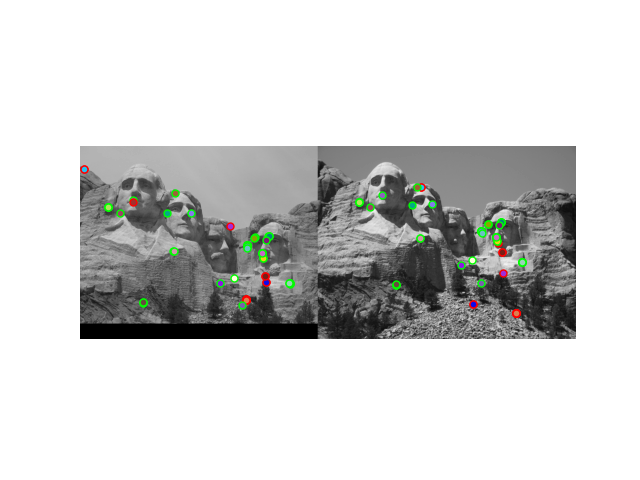
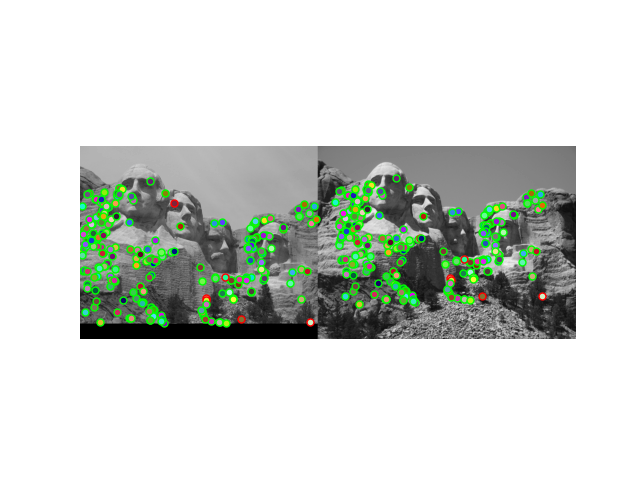
m

diff --git a/code/hw4_functions.py b/code/hw4_functions.py
@@ -1,6 +1,7 @@
 import cv2
 import numpy as np
 import skimage
+from scipy.ndimage import convolve
 
 def get_interest_points(image, descriptor_window_image_width):
     # Local Feature Stencil Code
@@ -34,45 +35,53 @@ def get_interest_points(image, descriptor_window_image_width):
     # - Notre Dame: ~1300 and ~1700
     # - Mount Rushmore: ~3500 and ~4500
     # - Episcopal Gaudi: ~1000 and ~9000
-    sigma=1
+    # Convert image to grayscale if it is color
     img_gray = np.float32(image if len(image.shape) == 2 else cv2.cvtColor(image, cv2.COLOR_BGR2GRAY))
-    #blurred_image = cv2.GaussianBlur(img_gray, (0,0), sigma)
-    blurred_image = img_gray
-    Ix = cv2.Sobel(blurred_image, cv2.CV_64F, 1, 0, ksize=5)
-    Iy = cv2.Sobel(blurred_image, cv2.CV_64F, 0, 1, ksize=5)
-    Ixx = cv2.GaussianBlur(Ix * Ix, (0,0), sigma)
-    Iyy = cv2.GaussianBlur(Iy * Iy, (0,0), sigma)
-    Ixy = cv2.GaussianBlur(Ix * Iy, (0,0), sigma)
-    
-    # Compute the Harris response
-    traceM = Ixx + Iyy
+    # Define horizontal and vertical gradient filters
+    gradient_filter_x = np.array([[-1, 0, 1]])
+    gradient_filter_y = np.array([[-1], [0], [1]])
+
+    # Compute gradients by convolving gradient filters with the image
+    Ix = cv2.filter2D(src=img_gray, kernel=gradient_filter_x, ddepth=-1)
+    Iy = cv2.filter2D(src=img_gray, kernel=gradient_filter_y, ddepth=-1)
+
+    # Compute products of derivatives
+    sigma = 1
     alpha = 0.05
-    cornerness = Ixx*Iyy-Ixy*Ixy-alpha*traceM
+    threshold = 0.01
+    Ixx = cv2.GaussianBlur(Ix * Ix, (5, 5), sigma)
+    Iyy = cv2.GaussianBlur(Iy * Iy, (5, 5), sigma)
+    Ixy = cv2.GaussianBlur(Ix * Iy, (5, 5), sigma)
+    cornerness = (Ixx*Iyy) - (Ixy**2) - alpha*((Ixx+Iyy)**2)
+    corners = cornerness > threshold * cornerness.max()
+    distance = 1
+    for i in range(distance, corners.shape[0] - distance):
+        for j in range(distance, corners.shape[1] - distance):
+            if corners[i, j]:
+                local_max = cornerness[i - distance:i + distance + 1, j - distance:j + distance + 1].max()
+                if cornerness[i, j] != local_max:
+                    corners[i, j] = False
 
-    # Thresholding to get initial corners
-    threshold = 0.08  # You may need to adjust this threshold
-    corners_thresholded = cornerness > threshold*cornerness.max()
-    skimage.measure.label()
-    # Step 6: Non-maxima suppression to pick peaks
-    kernel = cv2.getStructuringElement(cv2.MORPH_RECT, (3, 3))
-    dilated = cv2.dilate(corners_thresholded.astype(np.float32), kernel)
-    max_corners = (dilated == corners_thresholded) & (corners_thresholded > 0)
-
-    # Apply edge threshold to suppress the gradients/corners near the edges of the image
-    border_size = descriptor_window_image_width // 2
-    height, width = image.shape
-    suppressed_corners = np.zeros_like(cornerness, dtype=np.float32)
-    suppressed_corners[border_size:height - border_size, border_size:width - border_size] = max_corners[border_size:height - border_size, border_size:width - border_size]
-
-    # Find final corner coordinates
-    final_corners_y, final_corners_x = np.nonzero(suppressed_corners)
-
-    # Print the number of corners
-    print(f"Number of corners detected: {len(final_corners_x)}")
-
-    return final_corners_x, final_corners_y
+    # Getting the coordinates of corners
+    y, x = np.where(corners)
+    return x, y
 
 
+def compute_dominant_orientation(magnitude, orientation):
+    num_bins = 36
+    orientation_histogram = np.zeros((num_bins,))
+    angle_step = 360.0 / num_bins
+
+    for i in range(magnitude.shape[0]):
+        for j in range(magnitude.shape[1]):
+            angle = orientation[i, j] % 360
+            bin_idx = int(angle / angle_step)
+            orientation_histogram[bin_idx] += magnitude[i, j]
+
+    dominant_bin = np.argmax(orientation_histogram)
+    dominant_orientation = dominant_bin * angle_step
+
+    return dominant_orientation
 
 def get_descriptors(image, x, y, descriptor_window_image_width):
     # Written by James Hays for CS 143 @ Brown / CS 4476/6476 @ Georgia Tech
@@ -98,7 +107,8 @@ def get_descriptors(image, x, y, descriptor_window_image_width):
     # Convert to grayscale if the image is color
     # Assuming keypoints are provided as a list of cv2.KeyPoint objects
     # descriptor_window_image_width is the width of the SIFT descriptors. By default, it's set to 16 pixels.
-
+    x = np.round(x).astype(int)
+    y = np.round(y).astype(int)
     if len(image.shape) > 2:
         image = cv2.cvtColor(image, cv2.COLOR_BGR2GRAY)
 
@@ -110,9 +120,13 @@ def get_descriptors(image, x, y, descriptor_window_image_width):
     descriptors = np.zeros((len(x), 128))  # 128 = 16 histograms * 8 bins per histogram
 
     # Compute gradients using Sobel operator
-    dx = cv2.Sobel(image, cv2.CV_64F, 1, 0, ksize=5)
-    dy = cv2.Sobel(image, cv2.CV_64F, 0, 1, ksize=5)
-    magnitude = cv2.magnitude(dx, dy)
+    gradient_filter_x = np.array([[-1, 0, 1]])
+    gradient_filter_y = np.array([[-1], [0], [1]])
+
+    # Compute gradients by convolving gradient filters with the image
+    dx = cv2.filter2D(src=image, kernel=gradient_filter_x, ddepth=-1)
+    dy = cv2.filter2D(src=image, kernel=gradient_filter_y, ddepth=-1)
+    magnitude = np.sqrt(np.add(np.square(dx), np.square(dy)))
     orientation = np.arctan2(dy, dx) * (180 / np.pi) % 360
 
     # Pre-compute the Gaussian window
@@ -121,10 +135,10 @@ def get_descriptors(image, x, y, descriptor_window_image_width):
 
     # Iterate over all keypoints
     for idx in range(len(x)):
-        xi, yi = int(x[idx]), int(y[idx])
-
+        xi=x[idx]
+        yi=y[idx]
         # Ensure the window is fully within the image bounds
-        min_x = max(xi - window_width * 2, 0)
+        min_x = max(xi - window_width * 2, 0) #이미지 경계와 descriptor window 경계 중 큰걸로
         max_x = min(xi + window_width * 2, image.shape[1])
         min_y = max(yi - window_width * 2, 0)
         max_y = min(yi + window_width * 2, image.shape[0])
@@ -132,7 +146,6 @@ def get_descriptors(image, x, y, descriptor_window_image_width):
         # Calculate the region of the image to be considered for this keypoint
         window_magnitude = magnitude[min_y:max_y, min_x:max_x]
         window_orientation = orientation[min_y:max_y, min_x:max_x]
-
         # Apply the Gaussian window
         weight_window_magnitude = window_magnitude * gaussian_window[min_y - yi + window_width * 2:max_y - yi + window_width * 2,
                                                                     min_x - xi + window_width * 2:max_x - xi + window_width * 2]
@@ -144,14 +157,9 @@ def get_descriptors(image, x, y, descriptor_window_image_width):
         for i in range(4):
             for j in range(4):
                 # Subregion of window, considering the boundaries
-                i_min = max(0, window_width * i - (yi - window_width * 2))
-                j_min = max(0, window_width * j - (xi - window_width * 2))
-                i_max = min(window_width * (i + 1), window_magnitude.shape[0])
-                j_max = min(window_width * (j + 1), window_magnitude.shape[1])
-
                 # Subregion of weighted magnitudes and orientations
-                subregion_w_mag = weight_window_magnitude[i_min:i_max, j_min:j_max].flatten()
-                subregion_orientation = window_orientation[i_min:i_max, j_min:j_max].flatten()
+                subregion_w_mag = weight_window_magnitude[window_width*i:window_width*(i+1), window_width*j:window_width*(j+1)].flatten()
+                subregion_orientation = window_orientation[window_width*i:window_width*(i+1), window_width*j:window_width*(j+1)].flatten()
 
                 # Create histogram for this subregion
                 hist, _ = np.histogram(subregion_orientation, bins=num_bins, range=(0, 360), weights=subregion_w_mag)
@@ -193,34 +201,33 @@ def match_features(features1, features2):
     #
     # 'confidences' is a k x 1 matrix with a real valued confidence for every match.
 
-    # Placeholder random matches and confidences.
     matches = []
     confidences = []
     ratio = 0.8
-    # Iterate over all features in features1
-    for i, feature in enumerate(features1):
-        # Calculate the Euclidean distance from this feature to all features in features2
-        distances = np.linalg.norm(features2 - feature, axis=1)
 
-        # Sort the distances to get the closest and second closest match
-        sorted_distance_indices = np.argsort(distances)
-        closest_neighbor_index = sorted_distance_indices[0]
-        second_closest_neighbor_index = sorted_distance_indices[1]
+    for i in range(features1.shape[0]):
 
-        # Compute the nearest neighbor distance ratio
+        distances = np.sqrt(np.square(np.subtract(
+            features1[i, :], features2)).sum(axis=1))
+
+
+        sorted_indices = np.argsort(distances)
+        closest_neighbor_index = sorted_indices[0]
+        second_closest_neighbor_index = sorted_indices[1]
+
+
         nn_distance_ratio = distances[closest_neighbor_index] / distances[second_closest_neighbor_index]
 
-        # If the ratio is below the threshold, it's a good match
-        if nn_distance_ratio < ratio:
-            #print(nn_distance_ratio)
-            matches.append([i, closest_neighbor_index])
-            confidences.append((1.0 - nn_distance_ratio) * distances[second_closest_neighbor_index])
 
-    # Convert matches and confidences to numpy arrays
+        if nn_distance_ratio < ratio:
+            #print(i, closest_neighbor_index)
+            matches.append([i, closest_neighbor_index])
+            confidences.append(1.0 - nn_distance_ratio)
+
     matches = np.array(matches)
     confidences = np.array(confidences)
-    # Sort the matches by confidence in descending order
-    sorted_indices = np.argsort(-confidences)
+
+    sorted_indices = np.argsort(confidences)
     matches = matches[sorted_indices]
     confidences = confidences[sorted_indices]
 

diff --git a/code/main.py b/code/main.py
@@ -43,7 +43,7 @@ descriptor_window_image_width = 16
 maxPtsEval = 100
 
 # Whether to use the 'cheat' hand-picked interest points
-cheatInterestPoints = True
+cheatInterestPoints = False
 
 def main():
     # Notre Dame de Paris
